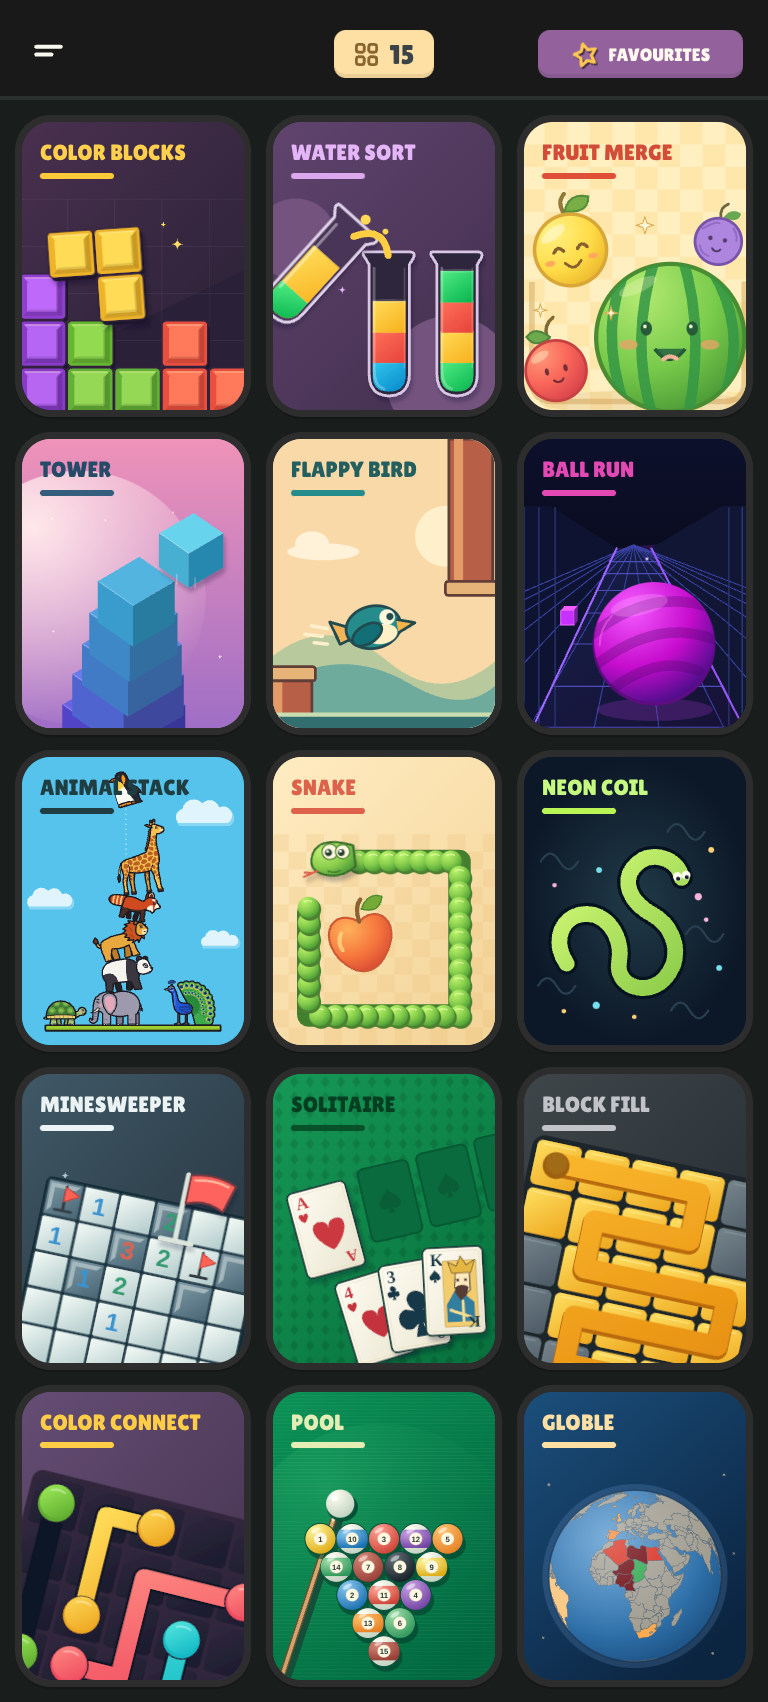
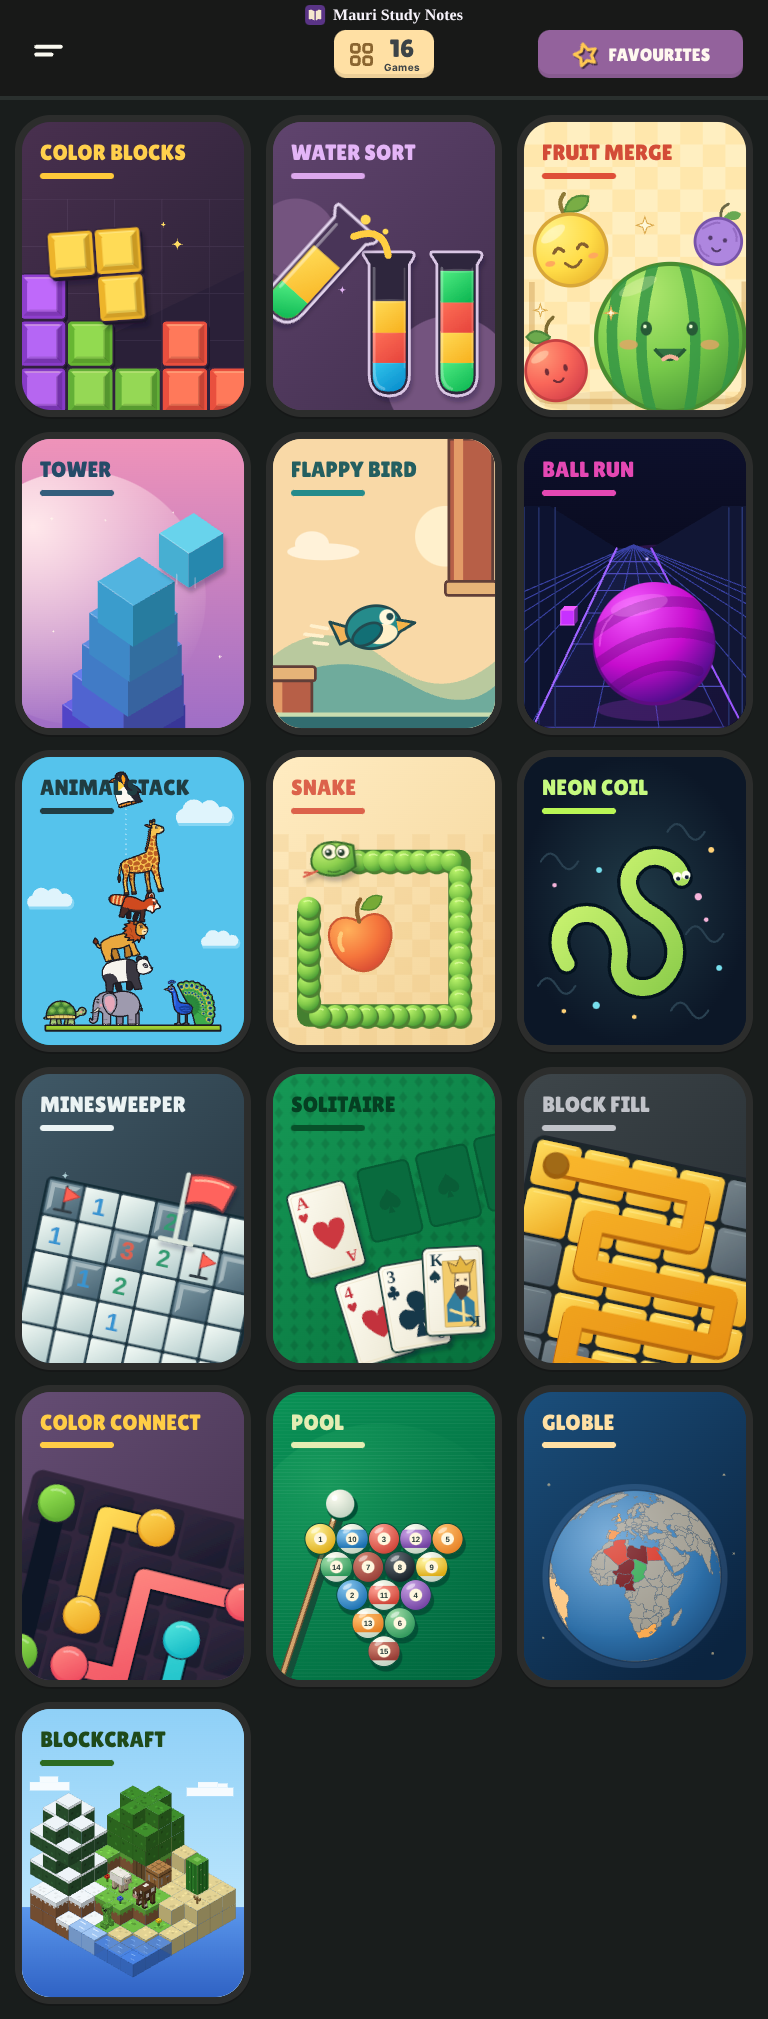
Describe the finished Blockcraft in the README and show the 16-game library
Claude-Session: https://claude.ai/code/session_014fGhduzRkMhz346c73V2eL

diff --git a/README.md b/README.md
@@ -59,6 +59,6 @@ All twelve cover illustrations were remade with the installed [SVG generation sk
 
 The repository's pre-existing agent skill collection remains intact; its original README is preserved in [workspace skill notes](docs/WORKSPACE_SKILLS.md). Each game records its actual loaded skills, documentation sources and gaps in its own `SKILL_USAGE.md`.
 
-Blockcraft is an endless block-building sandbox based on the MIT-licensed [Minecraft-Javascript-Edition](https://github.com/ashish0kumar/Minecraft-Javascript-Edition). It was rebuilt for speed: worker-thread terrain, greedy-meshed chunks with baked ambient occlusion, a 7-byte-vertex shader, procedural textures and adaptive resolution. It needs no image files. See [the optimisation record and benchmarks](docs/BLOCKCRAFT.md).
+Blockcraft is a modern-Minecraft-style survival and creative sandbox that began as a rebuild of the MIT-licensed [Minecraft-Javascript-Edition](https://github.com/ashish0kumar/Minecraft-Javascript-Edition). It has 23 biomes with caves, ores and structures, 147 block types, 284 items, 162 crafting and 25 smelting recipes, furnaces, chests, armour and shields, hunger, health, XP and status effects, 16 mobs (farm animals, wolves, squid, zombies, skeletons, creepers, spiders, endermen, slimes and their variants), day and night, weather, flowing water and lava, fire, TNT, crops, beds, advancements, sound, and keyboard, mouse, touch and gamepad controls. It was rebuilt for speed: worker-thread terrain, flood-fill lighting, greedy-meshed chunks with smooth lighting, a 20-byte vertex format, batched mob rendering and adaptive resolution. Every texture, model and sound is generated in code to look like the vanilla game; apart from its library cover it ships no image or audio files, and no Mojang assets. See [the optimisation record and benchmarks](docs/BLOCKCRAFT.md) and the [feature briefs](src/games/blockcraft/FEATURES.md).
 
 Flappy Bird uses an original marsh swift and reed-gate illustration. Ball Run now generates reproducible varied obstacles with a clear corridor and swept sphere collisions; older runs retain their original obstacle layout. See [local checkpoint and test evidence](docs/FLAPPY_BALL_RUN.md).
